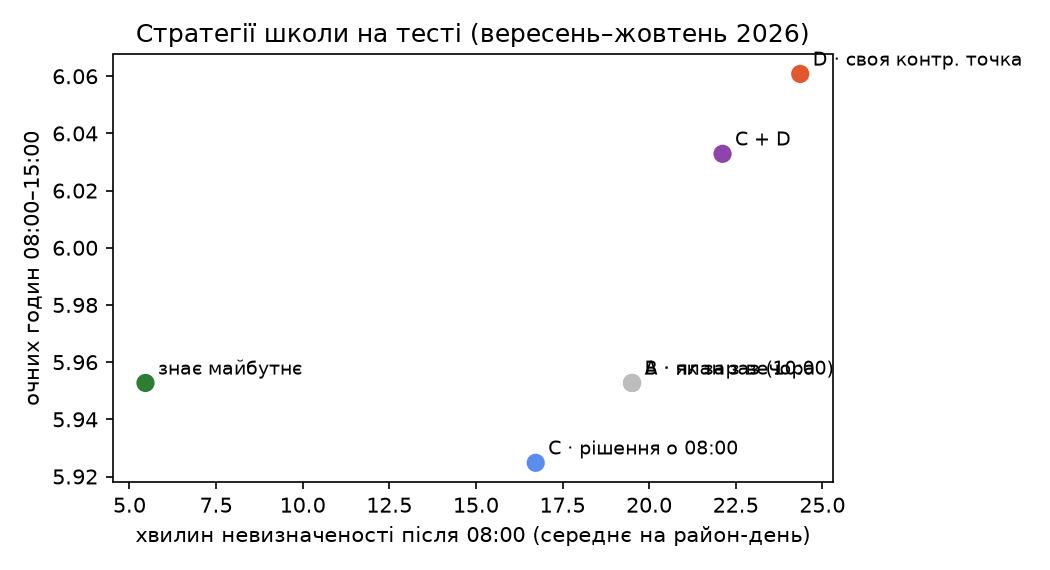
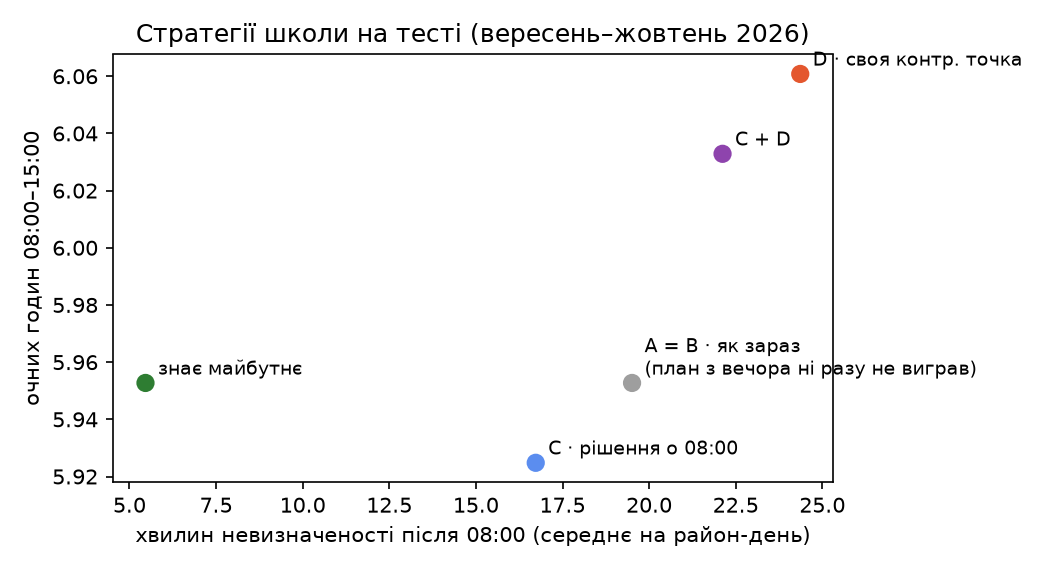
README with results, figures, limitations

Changed region(s): [[0.6095, 0.5965, 0.9448, 0.6561], [0.579, 0.6561, 0.6095, 0.686]]

diff --git a/src/airalerts/figures.py b/src/airalerts/figures.py
@@ -37,8 +37,10 @@ def policies() -> None:
              "C_call_at_08": "C · рішення о 08:00", "D_best_cp_per_raion": "D · своя контр. точка",
              "C+D": "C + D", "oracle": "знає майбутнє"}
     p = p.rename(index=names)
+    if (p.loc[names["B_plan_at_20"], ["in_person_h", "limbo_h"]] == p.loc[names["A_status_quo_cp10"], ["in_person_h", "limbo_h"]]).all():
+        p = p.drop(names["B_plan_at_20"]).rename(index={names["A_status_quo_cp10"]: "A = B · як зараз\n(план з вечора ні разу не виграв)"})
     fig, ax = plt.subplots(figsize=(7, 3.8))
-    ax.scatter(p.limbo_h * 60, p.in_person_h, s=60, color=["#9e9e9e", "#bdbdbd", "#5b8def", "#e4572e", "#8e44ad", "#2e7d32"])
+    ax.scatter(p.limbo_h * 60, p.in_person_h, s=60, color=["#9e9e9e", "#5b8def", "#e4572e", "#8e44ad", "#2e7d32"][: len(p)] if len(p) == 5 else None)
     for n, r in p.iterrows():
         ax.annotate(n, (r.limbo_h * 60, r.in_person_h), xytext=(6, 4), textcoords="offset points", fontsize=9)
     ax.set_xlabel("хвилин невизначеності після 08:00 (середнє на район-день)")

diff --git a/README.md b/README.md
@@ -1,40 +1,199 @@
-# Air raid alerts in Ukraine: time series for real decisions
+# School mornings under air raid alerts
 
-KSE Agentic AI School 2026, Stage 2 pet-project. **Status: work in progress (11 Oct 2026). Research is done; the problem is being chosen.**
+**Forecasting, per raion, whether a school day will start under alert and whether the all-clear will come in time, evaluated on the latest five weeks with no leakage.**
 
-The goal is a forecast that changes a real decision, evaluated on the latest data with no leakage: nothing used for training or as an input comes from after the moment the forecast is made.
+KSE Agentic AI School 2026, Stage 2. Time series analysis of air raid alerts in Ukraine.
 
-## Where things are
+> **Коротко українською.** Школа щоранку вирішує за правилом МОН (лист №1/19575 від 11.09.2026). Якщо о 08:00 тривога, день починається дистанційно. Якщо відбій приходить до контрольної точки (наприклад, 10:00), діти йдуть на очне навчання, інакше весь день дистанційний. Ми прогнозуємо по кожному району ймовірність тривоги о 08:00 (о 20:00 напередодні і о 07:00), ймовірність відбою до контрольної точки і ціну різних стратегій школи. Перевірено на 1.09–9.10.2026.
+>
+> Результати:
+> - **Прогноз о 07:00 значуще кращий** за найсильніше просте правило: +6.7%.
+> - Прогноз о 20:00 і модель відбою на тесті значущої переваги **не показали**.
+> - Найбільший виграш для шкіл дає **вибір контрольної точки під свій район**.
+> - Порайонні тривоги зберегли **1 934 шкільні ранки**.
 
-| Path | What |
-|---|---|
-| [docs/problems-plain.md](docs/problems-plain.md) | five candidate problems in plain language (UA) |
-| [docs/problem-options.md](docs/problem-options.md) | the same five with architectures, evaluation design, risks (UA) |
-| [docs/research/](docs/research/) | research reports: data, competitors, people's pains, economy, military data, Telegram lead time, products and regulation (UA) |
-| `src/airalerts/sources/` | data collection |
-| `data/` | local only, git-ignored; everything is re-downloadable |
+## The decision
 
-## Data, as verified on 11 Oct 2026
+Ministry of Education letter №1/19575 (11 Sep 2026) sets the rule, checked in the primary source:
 
-| Source | Coverage | Note |
+- if an alert is active when the school day starts, the day starts remotely;
+- the school sets a **control point** in advance (e.g. 10:00): an all-clear before it means in-person lessons after a ~60 min transition, an all-clear after it means the whole day is remote;
+- more than 2 hours of alerts per school day for several days in a row means changing the learning model.
+
+So three questions matter, for each raion:
+
+| | Asked at | Question |
 |---|---|---|
-| [Vadimkin dataset](https://github.com/Vadimkin/ukrainian-air-raid-sirens-dataset), official feed | 15 Mar 2022 → **7 Sep 2026** | frozen: its source channel stopped posting on 7 Sep 2026 |
-| Vadimkin dataset, volunteer feed | 25 Feb 2022 → today | oblast level only |
-| Telegram [@UkraineAlarmSignal](https://t.me/s/UkraineAlarmSignal) | live | raion/hromada level, yellow/red alert level, threat type; scraped here to fill 7 Sep → today |
-| Kaggle [Massive Missile Attacks on Ukraine](https://www.kaggle.com/datasets/piterfm/massive-missile-attacks-on-ukraine) | 2022 → 10 Oct 2026 | daily Air Force reports; usable only from their publication time |
+| **M1** | 20:00 the evening before, and 07:00 | Will an alert be active at 08:00? |
+| **M2** | 08:00, if an alert is on | Will the all-clear come by 10:00 (11:00, …)? |
+| **M3** | ahead of time | Which strategy gives the most in-person hours with the least time in limbo? |
 
-The series has at least five structural breaks: raion-level alerts (Dec 2025), jet-drone "streaks" (mid-Aug 2026), restricted Air Force reporting (11–12 Aug 2026), yellow/red alert levels (4–6 Sep 2026), voice-only all-clear (18 Sep 2026). See [docs/research/01-data-landscape.md](docs/research/01-data-landscape.md).
+## Data, and what was wrong with it
+
+| Source | Used for | Finding |
+|---|---|---|
+| [Vadimkin dataset](https://github.com/Vadimkin/ukrainian-air-raid-sirens-dataset), official feed | 15 Dec 2025 → 27 Aug 2026 | **38% exact duplicate rows**. **Outage 29 Aug – 2 Sep** (0 alerts on 30 Aug – 1 Sep while the volunteer feed has ~170/day). **Stops on 7 Sep 2026**, when its source channel went silent after the yellow/red reform |
+| Telegram [@UkraineAlarmSignal](https://t.me/s/UkraineAlarmSignal), scraped (61 300 posts, 15 Aug → 11 Oct) | 28 Aug → now | Same state signal, with **yellow/red level** and level changes. When the official feed works, the two agree on **96–97% of alert starts within 2 min, both ways** ([source_agreement.csv](results/source_agreement.csv)) |
+| Kaggle [Massive Missile Attacks on Ukraine](https://www.kaggle.com/datasets/piterfm/massive-missile-attacks-on-ukraine) | days since a mass night, drones in 7 days | A night's report is usable only after it is published (time_end + 2 h) |
+| Telegram @kpszsu (Air Force), scraped (36 560 posts, Dec → Oct) | candidate feature | Did not pass validation, see below |
+
+Other traps found on the way:
+- Three raions **renamed in 2024** had different names in the two sources.
+- **Occupied raions** pass a naive "has its own alerts" filter, because the official feed repeats oblast-wide alerts per raion. Donetsk oblast (not zoned, near-permanent alert) and occupied raions are excluded, which leaves **104 units: 103 raions + Kyiv**.
+- The series has structural breaks:
+  - raion-level alerts nationwide from 15 Dec 2025;
+  - jet-drone "streaks" from mid-Aug 2026;
+  - restricted Air Force reporting from 11–12 Aug;
+  - yellow/red levels from 4–6 Sep;
+  - voice-only all-clear from 18 Sep.
+
+Details: [docs/research/01-data-landscape.md](docs/research/01-data-landscape.md).
+
+## Method
+
+Everything a model sees is computed **as of the issue time**. Plain-language walk-through: [docs/how-it-works.md](docs/how-it-works.md).
+
+- **M1 features:**
+  - the raion's state now and the minutes since the last alert;
+  - alert minutes in 6 h / 24 h / 7 d;
+  - share of the oblast and of the country under alert now;
+  - the raion's 08:00 alert rate over 28 days;
+  - a rolling 42-day Markov probability;
+  - days since the last mass night and drones in the last 7 days (published reports only);
+  - at 07:00, also the night's alert minutes.
+- **M1 models:** logistic regression and gradient boosting (isotonic-calibrated).
+- **M2:** Kaplan–Meier baselines (pooled, per oblast), logistic regression, Weibull AFT; time from 08:00 to the all-clear with right-censoring.
+- **M3:** in-person hours (08:00–15:00) and "limbo" hours under the MoE rule for:
+  - **A**, status quo;
+  - **B**, plan the day at 20:00;
+  - **C**, call the day at 08:00 using M2;
+  - **D**, a per-raion control point chosen on history;
+  - **Oracle**, as the ceiling.
+
+**Evaluation was pre-registered** in [PREREG.md](PREREG.md) before the test window was touched:
+- train 15 Dec – 31 Jul;
+- validation August (model, features, thresholds);
+- **test 1 Sep – 9 Oct 2026, run once**;
+- baselines: climatology, persistence, rolling Markov; the model must beat the **strongest** one;
+- paired block bootstrap over days.
+
+Every change after registration is listed there with its time and reason, including one crashed test run.
+
+**Leakage controls** ([tests/test_leakage.py](tests/test_leakage.py), 8 tests):
+- `available_at <= issue_time` on every row;
+- features recomputed on a world **truncated at the issue time** equal the full-data features;
+- a **planted leak** must trip the guard (AUC > 0.995 aborts);
+- a check that the truncation test itself detects a feature that peeks 12 h ahead;
+- attack reports are never available before their window ends;
+- Air Force post counts use only earlier posts.
+
+## Results (test: 1 Sep – 9 Oct 2026, 104 units, 29 weekdays)
+
+![skill](figures/test_skill.png)
+
+| Question | Model | vs strongest baseline | 95% CI | Pre-registered criterion |
+|---|---|---|---|---|
+| Alert at 08:00, issued **07:00** | logistic | **+6.7%** Brier skill (vs rolling Markov) | +1.3% … +13.0% | **met** |
+| Alert at 08:00, issued 20:00 | logistic | +2.6% (vs rolling Markov) | −3.2% … +8.1% | not met |
+| All-clear by 10:00 | logistic | +9.2% (vs Kaplan–Meier) | −1.0% … +21.0% | not met |
+
+- The test period was much more intense than training: an alert was active at 08:00 on **25.4%** of raion-mornings, against 12.2% in training. Against plain climatology the 07:00 model gains +21.9% and the 20:00 model +4.5%.
+- **Gradient boosting lost to logistic regression** on validation and on test, so the simpler model is reported.
+- The all-clear model scored +29% on validation but only +9% (not significant) on test. **The yellow/red reform changed how alerts end** (voice-only all-clear from 18 Sep), and a model trained before it degrades.
+- **Air Force threat posts did not help.** "How many Air Force posts mentioned your oblast in the last 1–3 h" improved validation by less than one standard error, so by the registered 1-SE rule it was dropped. The two strongest public competitors found the same about Telegram text for alert onset.
+
+### All-clear by alert colour (since 6 Sep)
+
+If an alert is on at 08:00, this is the chance of the all-clear by each time (Kaplan–Meier, 855 alerts; [levels_clear_by_time.csv](results/levels_clear_by_time.csv)):
+
+| alert at 08:00 | already running | by 09:00 | **by 10:00** | by 11:00 | by 12:00 |
+|---|---|---|---|---|---|
+| yellow | < 30 min | 64% | **77%** | 85% | 92% |
+| yellow | 30 min – 2 h | 48% | **61%** | 76% | 82% |
+| yellow | > 2 h | 36% | **48%** | 63% | 65% |
+| red | < 30 min | 52% | **65%** | 83% | 89% |
+| red | 30 min – 2 h | 43% | **59%** | 80% | 82% |
+| red | > 2 h | 13% | **24%** | 33% | 37% |
+
+The level used is the one **in force at 08:00**, not the maximum over the alert: an alert that turned red at 09:00 was not known to be red at 08:00. Fitted only on earlier days, the colour improves the all-clear forecast by +5.2% Brier skill (407 weekday alerts from 21 Sep).
+
+![levels](figures/levels_clear_curves.png)
+
+### What it means for a school (M3)
+
+![policies](figures/test_policies.png)
+
+| Strategy | In-person hours / day | Limbo min / day | Fully remote days |
+|---|---|---|---|
+| A · status quo, control point 10:00 | 5.95 | 19.5 | 11.7% |
+| B · plan a remote day at 20:00 | = A: never triggered | | |
+| C · call the day at 08:00 with M2 | 5.93 | 16.7 | 12.2% |
+| **D · per-raion control point** | **6.06** | 24.4 | **8.4%** |
+| Oracle (knows the all-clear time) | 5.95 | 5.5 | 11.7% |
+
+- **Planning a remote day the evening before never pays off.** On validation its value rises with the threshold until it stops firing: a wrongly cancelled school day costs more than the uncertainty it removes. The evening forecast is information for parents, not a trigger.
+- **The biggest lever is the control point.** Choosing it per raion from history (D) gives more in-person hours than the status quo, at the price of a few more minutes of waiting.
+- **The 08:00 call (C) cuts limbo** but not in-person hours, because the all-clear model is not sharp enough on the new regime.
+
+### The price of alerts for schools
+
+From [results/cost_summary.json](results/cost_summary.json):
+
+- **Zoning dividend.** 15.0% of raion school mornings (Jan–May and Sep–Oct 2026) started under alert. If every alert covered the whole oblast, it would be 29.4%: raion-level alerts **saved 1 934 school mornings**.
+- **Yellow vs red.** Since 8 Sep, yellow (drone) alerts took **14.0%** of weekday school hours (08:00–15:00) and red **12.0%**. Under КМУ №1092 businesses with shelters may work during yellow, but schools shelter at both levels. Yellow alerts are where school time is lost relative to the rest of the economy.
+- **Control point trade-off.** Across 65 mid-intensity raions, moving the control point from 09:00 to 12:00 cuts fully remote days from 10.6% to 4.1% and raises waiting from 9 to 21 minutes a day.
+
+![control point](figures/cost_control_point.png)
+
+## Live test: Monday 12 Oct 2026
+
+The forecast for this morning was committed **at 00:40, before 08:00** ([brief](results/live/brief_2026-10-12_2000.md)). A 07:00 update and the checks at 08:00 and 10:00 follow: see [results/live/](results/live/).
+
+*(to be filled after 10:07)*
+
+## Evening brief
+
+`python -m airalerts.brief --day 2026-10-13` writes one line per raion: the chance of an alert at 08:00, the chance of an all-clear by 10:00, the chance of a fully remote day, and plain advice. It also includes the colour × elapsed-time table for the 08:00 update. The text comes from a template, with no LLM: every number in it comes straight from the models.
+
+## Limitations
+
+- **One evaluation window of 29 weekdays in an unusually intense period.** The intervals above reflect that.
+- **The all-clear model was trained before the yellow/red reform.** Only ~5 weeks of post-reform data exist.
+- **The source switch on 28 Aug** means training and test labels come from different, though 96–97% consistent, feeds.
+- **Edited posts.** Historical Telegram posts carry no "edited" flag (a scraper bug, fixed). A sample shows 2.8% of Air Force threat posts were edited, and those features were not used in the end.
+- **Excluded units.** Occupied raions are listed by hand, and Donetsk oblast is excluded.
+- **Scope.** Not a replacement for official alerts. Uses no real-time threat positions.
 
 ## Run
 
 ```bash
 python3 -m venv .venv && .venv/bin/pip install -r requirements.txt
-PYTHONPATH=src .venv/bin/python -m airalerts.sources.vadimkin
-PYTHONPATH=src .venv/bin/python -m airalerts.sources.telegram UkraineAlarmSignal --since 2026-08-15
+export PYTHONPATH=src
+.venv/bin/python -m airalerts.sources.vadimkin                                   # official + volunteer feeds
+.venv/bin/python -m airalerts.sources.telegram UkraineAlarmSignal --since 2026-08-15
+.venv/bin/python -m airalerts.sources.telegram kpszsu --since 2025-12-01        # optional
+# Kaggle: download missile_attacks_daily.csv to data/raw/kaggle/
+.venv/bin/python -m airalerts.parse_signal
+.venv/bin/python -m pytest -q                       # leakage tests
+.venv/bin/python -m airalerts.evaluate              # validation only
+.venv/bin/python -m airalerts.evaluate --test       # the registered test run
+.venv/bin/python -m airalerts.levels && .venv/bin/python -m airalerts.cost && .venv/bin/python -m airalerts.figures
 ```
 
-The Telegram scraper reads the public web preview only (no login, no API keys), waits between requests and resumes where it stopped.
+## Repository
+
+| Path | What |
+|---|---|
+| `src/airalerts/sources/` | Telegram web-preview scraper (no login), dataset downloader |
+| `src/airalerts/parse_signal.py` | posts → alert episodes with level timelines |
+| `src/airalerts/data.py` | one alert store per raion, source switch, exclusions |
+| `src/airalerts/dataset.py`, `attacks.py`, `airforce.py` | as-of-time features |
+| `src/airalerts/models.py`, `policies.py`, `evaluate.py` | models, MoE decision rule, registered evaluation |
+| `src/airalerts/levels.py`, `cost.py` | all-clear by colour; price of alerts for schools |
+| `src/airalerts/brief.py`, `live.py` | evening brief; live forecast and check |
+| `PREREG.md` | the registered evaluation and every later change |
+| `docs/` | research, the five problems considered, architecture, plain-language explanation |
 
 ## Responsible use
 
-Uses only the start and end times of public alerts and published daily reports. It does not show or use real-time movement of threats or air defence. It is a research project, not a replacement for official alert signals.
+The project uses only the start and end times of public alerts, their published level, and published daily reports. It does not show or use real-time movement of threats or air defence (Criminal Code art. 114-2). It is a research project and does not replace official alert signals.
